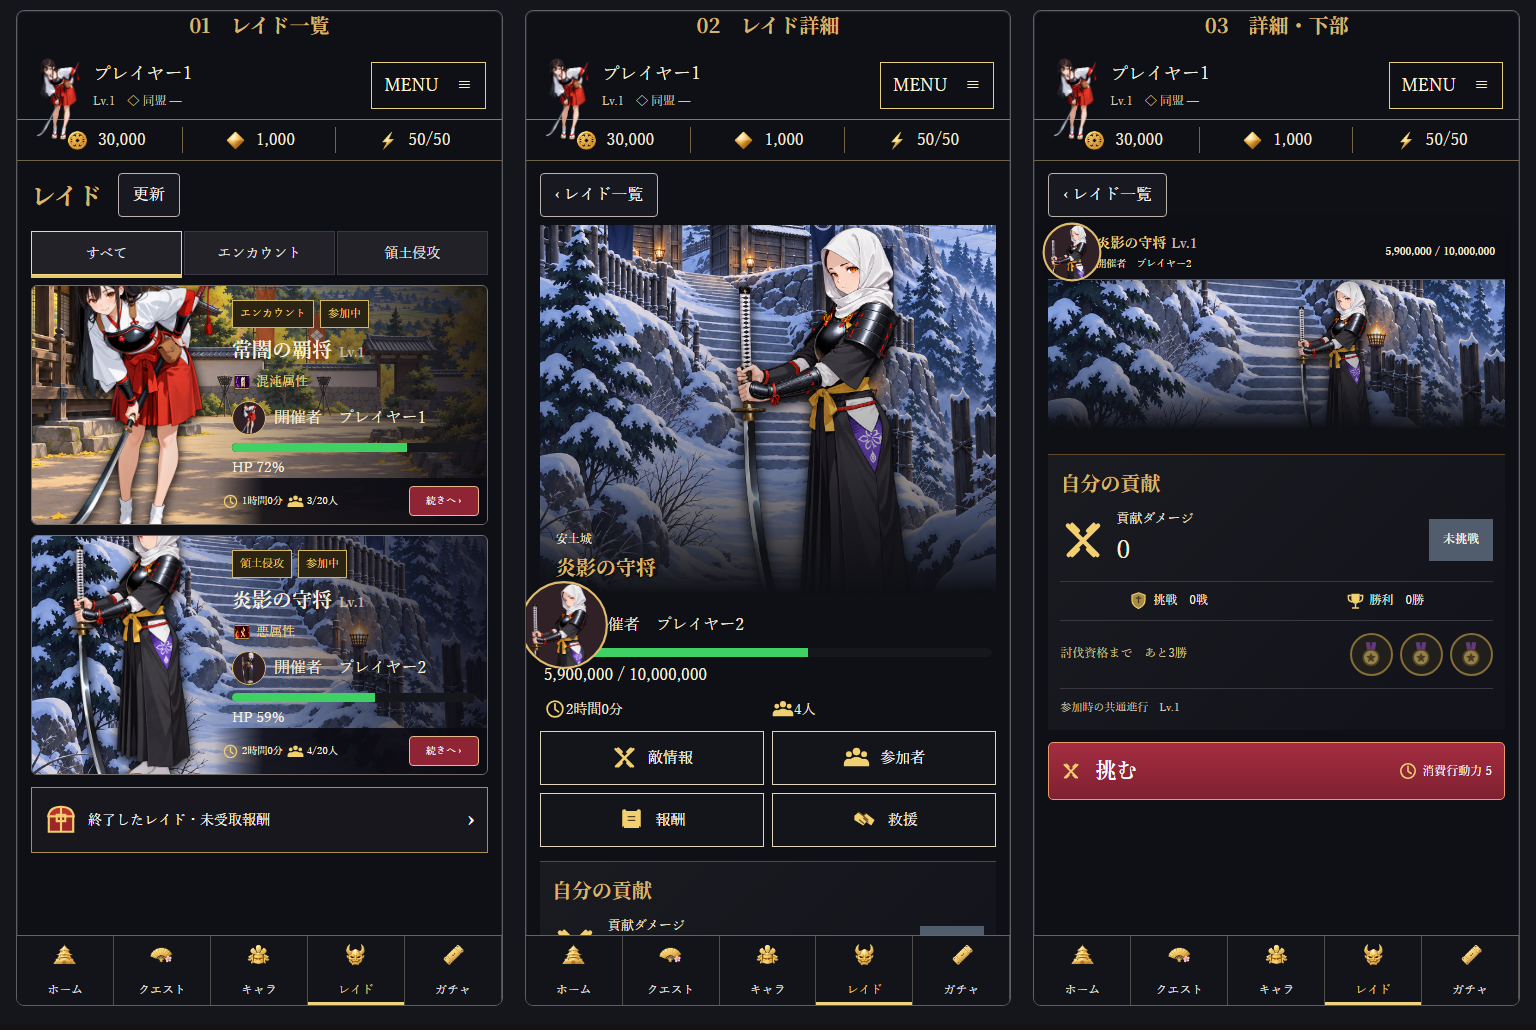
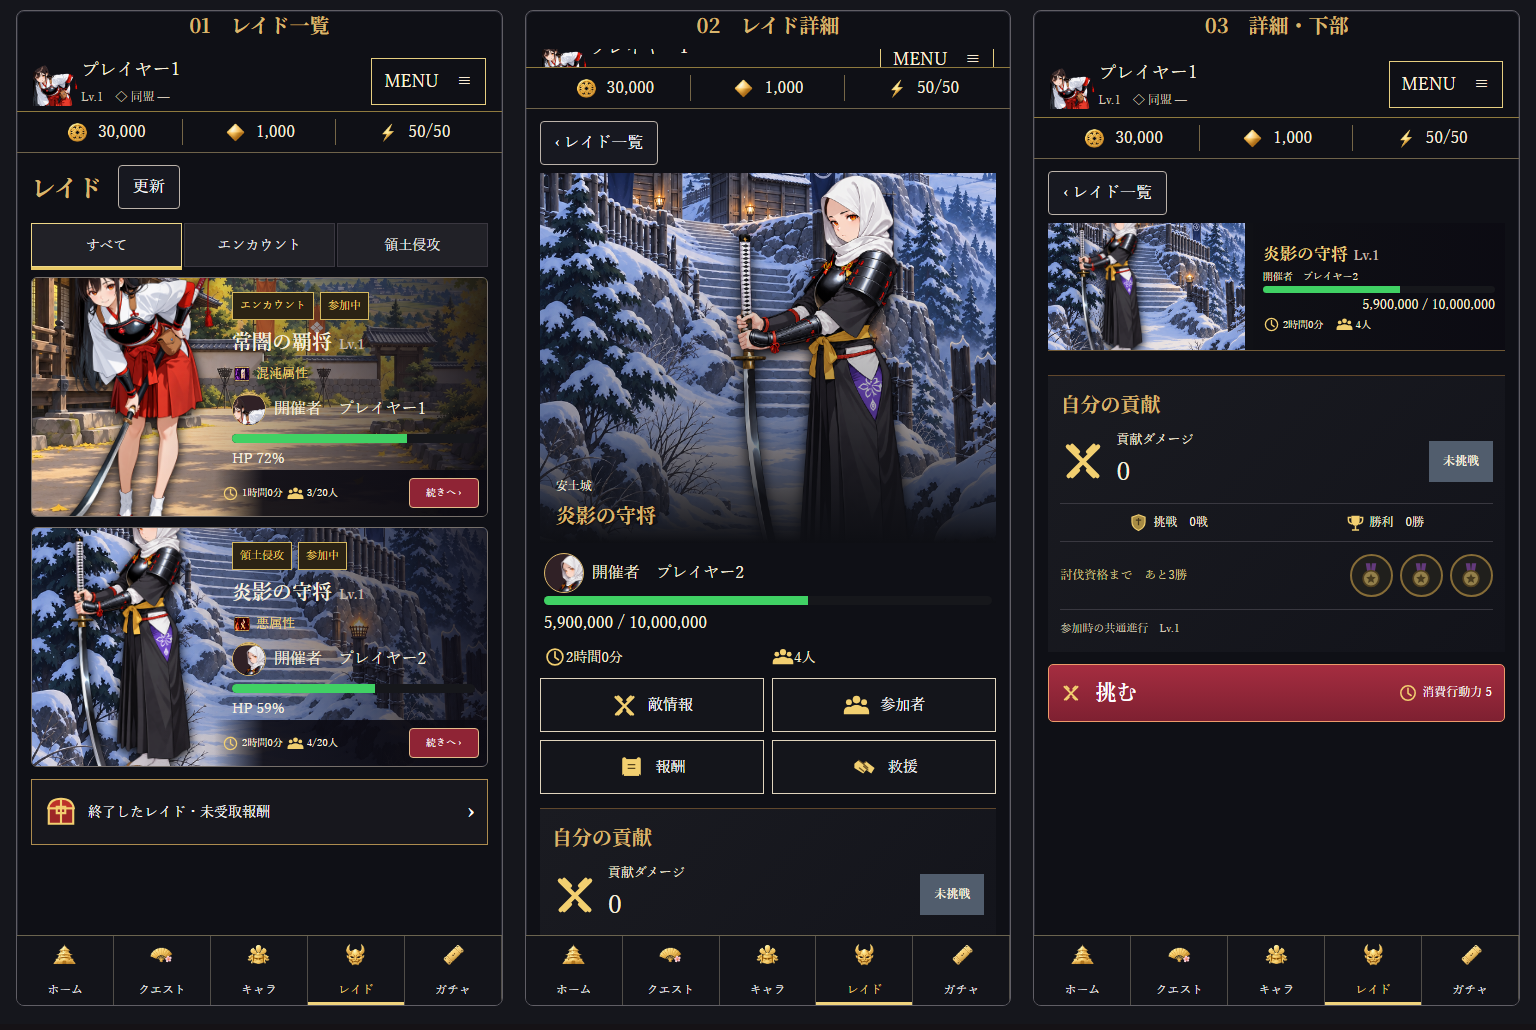
docs: correct raid visual comparison record

diff --git a/docs/design/raid/2026-09-23/comparison/verification-20260923.md b/docs/design/raid/2026-09-23/comparison/verification-20260923.md
@@ -1,40 +1,43 @@
-# レイドUI表示層・承認モック再照合記録
+# レイドUI承認モック再照合記録
 
 - Branch: `codex/game04-raid-approved-implementation-20260923`
-- Implementation SHA: `7801337ee521e2c8851f71993341a282c3bce906`
-- Fixed Preview: https://game04-o02w9r1kk-kiyoshi-kitamura.vercel.app
-- Deployment: `dpl_J2ijwnp5wiJgGSZiAPWF9ikhZJ21` / Ready / Preview
+- Implementation SHA: `ffbc5ced9a3e5793e1fc25ba056d930007730428`
+- Fixed Preview: https://game04-eyhnk6w4i-kiyoshi-kitamura.vercel.app
+- Deployment: `dpl_ECUXUJbUoKK7au6shLmrDqqW8PX3` / Ready / Preview
+
+## 前回記録の訂正
+
+前回記録の「顔クロップ・配置は修正済み」は、提出画像の人物切れ・Header画像のはみ出し・詳細下部の構成不一致と一致していなかったため誤記として訂正する。今回、実画像で再確認したうえで修正した。
 
 ## 今回の修正
 
-- コンパクト表示の固定帯に、小さい開催者顔・ボス名・開催者名・HPを集約。本文側のボス名／開催者／HPを重複表示しない。
-- 詳細から `確認用Guild`、期限のJST表示、`登録参加者`、参加者画像列を除去。
-- 開催者画像は顔が見えるクロップへ調整。
-- 貢献欄を `自分の貢献`、`未挑戦`、`討伐報酬資格まで あと3勝`、`参加時の共通進行 Lv.1` の構成へ修正。
-- CTAは暗い内側ボタンを残さず、赤いボタン面・剣アイコン・消費行動力を共通部品内で描画。
-- 比較QAの3パネルに本体と同じ共通Header／Footerを含め、一覧・詳細・詳細下部を同一表示範囲で確認。
+- 一覧の人物・Header・開催者画像を顔領域へ収め、名前・HP・通貨欄へはみ出さないサイズとクリップに修正。
+- 詳細下部はテキストだけの固定帯を廃止し、小さいボス画像＋背景＋ボス名・開催者・HP・時間・人数をまとめた戦況コンパクト構成へ変更。
+- 詳細下部の横長背景領域を廃止し、コンパクト戦況の直下に4アクションを配置。
+- 前回修正済みの不要情報削除、貢献欄、丸形進捗、赤CTAは保持。
 
 ## 固定Preview検証
 
-読み込み完了後に撮影し、ローディング中の画像は提出していない。
+承認モックと本体を同じ幅 `1536px` で横並びにして目視確認した。画像取得・必須データ読込完了後に撮影し、ローディング中の画像は提出していない。
 
 | Route | HTTP | GAME03旧文字列 | 検証結果 |
 |---|---:|---:|---|
-| `/qa/raid-approved` | 200 | 0 | 共通カード2件・詳細2状態・Footer3件 |
-| `/qa/raid-detail` | 200 | 0 | 共通詳細1件・loader=0 |
+| `/qa/raid-approved` | 200 | 0 | 共通カード2件、詳細2状態、Footer3件 |
+| `/qa/raid-detail` | 200 | 0 | 共通詳細1件、loader=0 |
 | `/qa/raid-top` | 200 | 0 | 共通カード4件 |
 
-固定Previewの比較QAでは、`確認用Guild`、`JST`、`登録参加者`を各0件、赤CTAを2件確認。`npm run typecheck`、`npm run build` はPASS。
+- 共通Header／Footer込みの承認モック・本体比較で、コンパクト戦況画像=1、4アクション、赤CTA=2を確認。
+- `確認用Guild`、`JST`、`登録参加者`は固定Preview本文で各0件。
+- `npm run typecheck`: PASS。
+- `npm run build`: PASS。
 
 ## 比較画像
 
-- [共通Header／Footer込み3状態](./raid-approved-full-shell-1536.png)
+- [承認モック｜本体 同幅横並び](./raid-approved-mock-full-shell-vs-body-1536.png)
+- [本体3状態 Header／Footer込み](./raid-approved-full-shell-1536.png)
 - [一覧比較](./raid-approved-mock-list-vs-body.png)
 - [詳細比較](./raid-approved-mock-detail-vs-body.png)
 - [詳細下部比較](./raid-approved-mock-lower-vs-body.png)
-- [固定Preview一覧](./raid-approved-preview-390.png)
-- [本体詳細上部](./raid-body-detail-390.png)
-- [本体詳細下部](./raid-body-detail-lower-390.png)
 
 ## 接続保持
 
@@ -49,6 +52,6 @@
 - 承認モック専用背景の供給。
 - 未承認SVG9種：`clock.svg`、`people.svg`、`swords.svg`、`scroll.svg`、`handshake.svg`、`chest.svg`、`armor.svg`、`victory.svg`、`medal.svg`。正式採用済みとは扱わない。
 
-配置・透過・不要情報削除・重複表示除去・顔クロップ・貢献欄・赤CTA・Header／Footer込みの比較は今回修正済み。素材とデータ移行の残件を表示未実装の理由にはしていない。
+人物の切れ、Header／開催者画像のはみ出し、詳細下部の構成、配置、不要情報、CTA内側の描画は今回修正済み。素材・データ移行の残件を表示不一致の理由にはしていない。
 
 Production公開・mainマージは実施していない。
